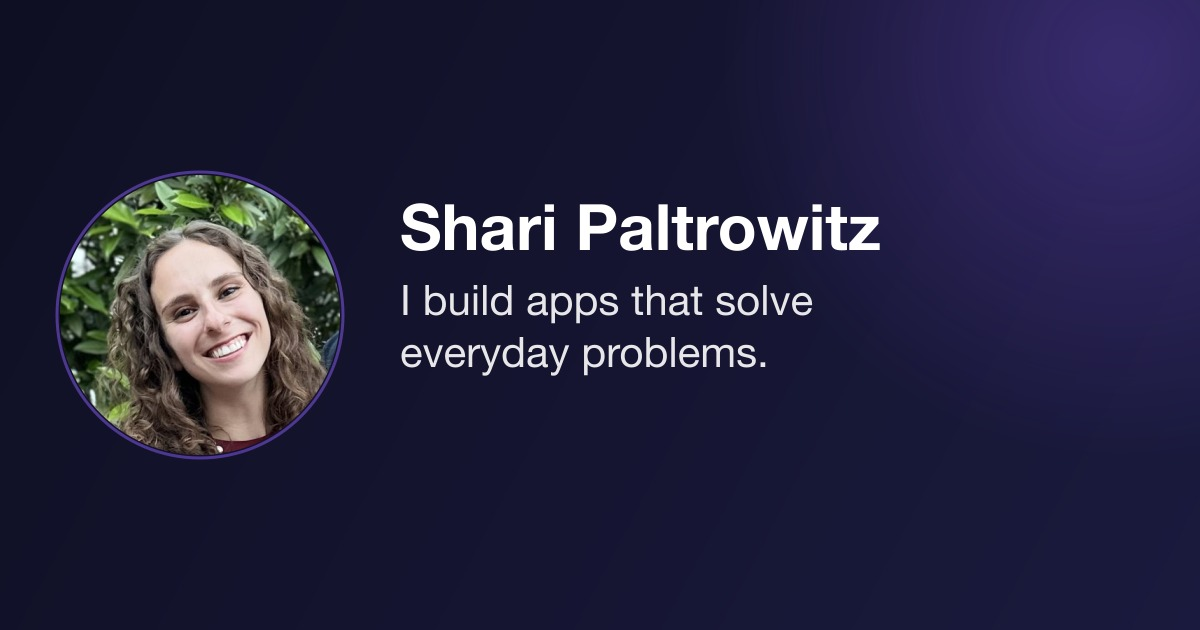
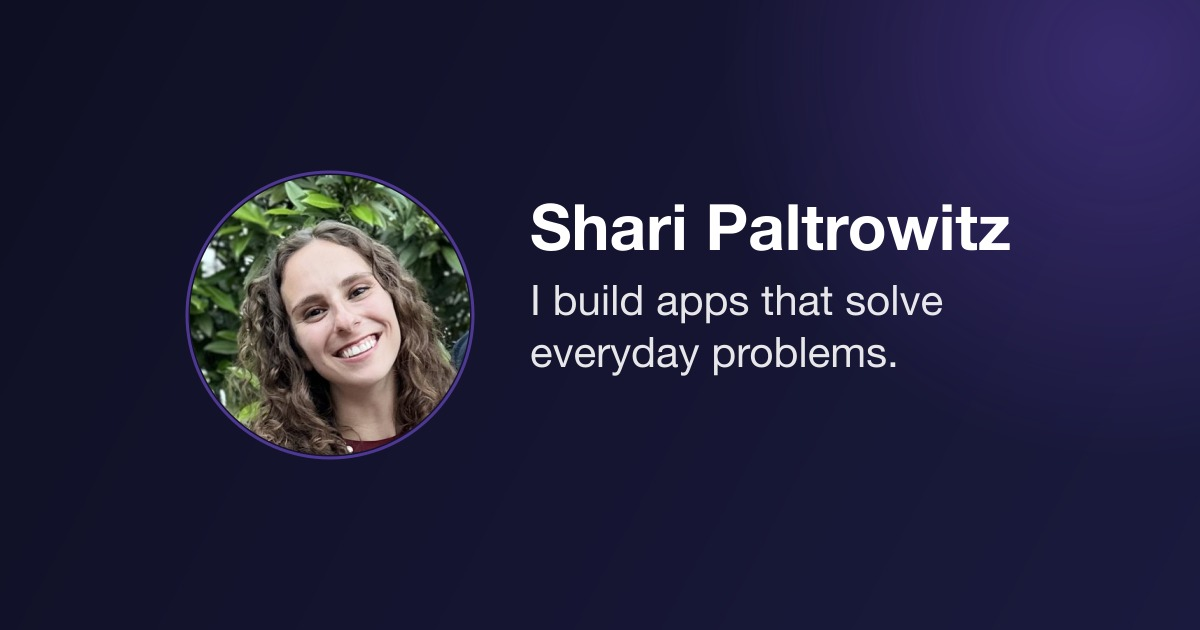
Center OG image content — shift headshot+text right ~100px
Content block was left-heavy (sitting in left 60% of frame).
Now horizontally centered as a group with equal breathing room
on both sides.

Changed region(s): [[0.0308, 0.2714, 0.8633, 0.754]]

diff --git a/index.html b/index.html
@@ -8,11 +8,11 @@
   <meta property="og:title" content="Try my apps or pitch me yours.">
   <meta property="og:description" content="Try my apps, send feedback, or pitch me your idea. I'll build it.">
   <meta property="og:type" content="website">
-  <meta property="og:image" content="https://spaltrowitz.github.io/og-image.jpg?v=9">
+  <meta property="og:image" content="https://spaltrowitz.github.io/og-image.jpg?v=10">
   <meta property="og:image:width" content="1200">
   <meta property="og:image:height" content="630">
   <meta name="twitter:card" content="summary_large_image">
-  <meta name="twitter:image" content="https://spaltrowitz.github.io/og-image.jpg?v=9">
+  <meta name="twitter:image" content="https://spaltrowitz.github.io/og-image.jpg?v=10">
   <link rel="icon" type="image/x-icon" href="favicon.ico">
   <link rel="preconnect" href="https://fonts.googleapis.com">
   <link rel="preconnect" href="https://fonts.gstatic.com" crossorigin>
